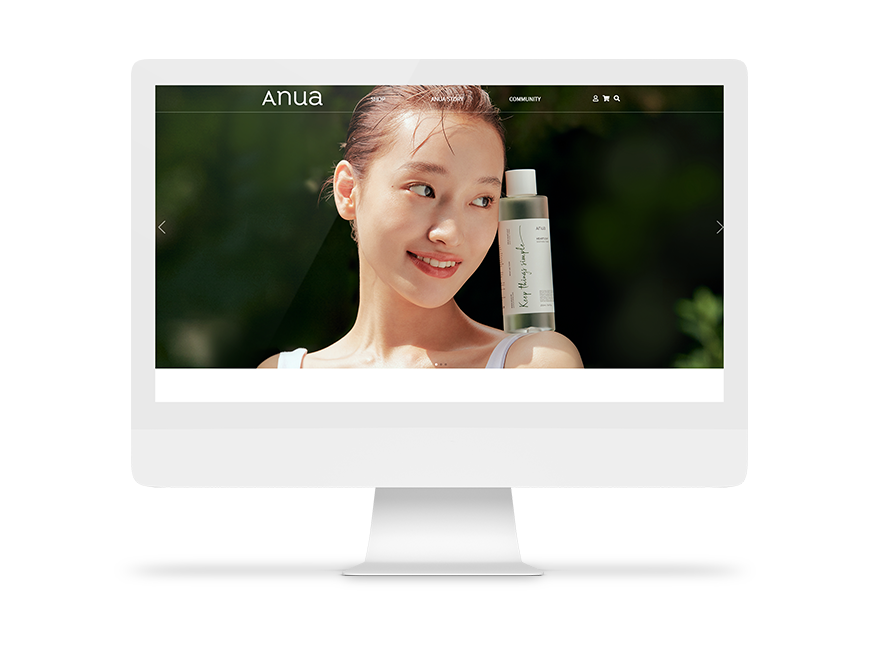
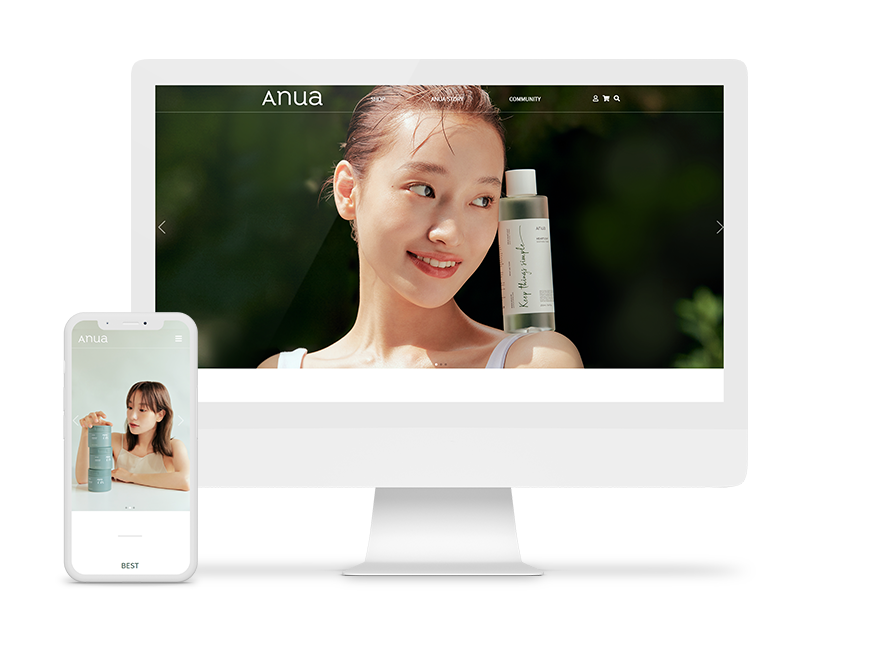
Add files via upload

Changed region(s): [[0.0621, 0.4615, 0.2483, 0.9231]]

diff --git a/index.html b/index.html
@@ -56,6 +56,9 @@
         .container{margin:0 auto;width:100%;max-width:1400px;}
         .page-name{margin-bottom:100px;font-weight:800;font-size:28px;text-align:center;}
         .sub-name{font-weight:700;font-size:20px;margin-bottom:70px;text-align:center;}
+        .short-line1,.short-line2{width:100px;height:1px;background-color:#333;margin:0 auto;}
+        .short-line1{margin-top:290px;}
+        .short-line2{margin-bottom:90px;}
 
         
         .top-nav{width:100%;height:100px;position:fixed;left:0;top:0;display:flex;justify-content: center;z-index:9999;background-color:transparent;color:#fff;}
@@ -66,7 +69,7 @@
         
         /* header style */
         header{width:100%;height:100vh;position:relative;}
-        header::after{content:'';display:block;width:80%;height:600px;left:10%;right:10%;bottom:-400px;position:absolute;background-color:rgba(233, 245, 246, .5);z-index:-99;}
+        /* header::after{content:'';display:block;width:80%;height:600px;left:10%;right:10%;bottom:-400px;position:absolute;background-color:rgba(233, 245, 246, .5);z-index:-99;} */
         .header .container{max-width:none;}
         .logo{font-weight:800;font-size:30px;}
         .back-img picture img{width:100%;height:100vh;position:absolute;right:0;top:0;bottom:0;filter:grayscale(0.7);}
@@ -134,8 +137,9 @@
         .space{display:none;}
 
         /* portfolio style */
-        .portfolio{position:relative;margin-bottom:150px;padding:100px 0;background:rgb(241, 239, 239);}
-        .portfolio::after{content:'';display:block;width:120%;height:500px;background-color:rgb(241, 239, 239);position:absolute;left:-37px;right:0;bottom:-60px;transform:rotate(-3deg);z-index:-99;}
+        .portfolio{position:relative;margin-bottom:150px;padding:100px 0;background:#f8f9fa;}
+        .portfolio::before{content:'';display:block;width:120%;height:200px;background-color:#fff;position:absolute;left:-37px;right:0;top:-125px;transform:rotate(-3deg);z-index:1;}
+        .portfolio::after{content:'';display:block;width:120%;height:500px;background-color:#f8f9fa;position:absolute;left:-37px;right:0;bottom:-60px;transform:rotate(-3deg);z-index:-99;}
         .swiper{width:90%;}
         .swiper-wrapper{height:58%;}
         .swiper-pagination-bullet-active{background:#333;}
@@ -143,12 +147,11 @@
         .slide-txt{text-align:center;}
         .btn-box{display:flex;justify-content:center;margin-top:10px;}
         .img-box img{border-radius:20px;}
-        .site-btn{width:100px;height:30px;border-radius:10px;background-color:#333;color:#fff;}
+        .site-btn{display:flex;justify-content:center;align-items:center;width:130px;height:30px;padding-bottom:4px;border-radius:10px;background-color:#333;color:#fff;}
         .btn-box .site-btn:nth-child(1){margin-right:5px;}
         h3{margin-top:10px;font-weight:600;font-size:1.3em;}
-        .short-line{width:100px;height:1px;background-color:#333;margin:0 auto;margin-bottom:90px;}
         .contents-box{display:flex;flex-flow:row wrap;justify-content:space-between;}
-        .btn-modal{width:100px;height:30px;border-radius:10px;margin:0 auto;background-color:#333;display:flex;justify-content:center;}
+        .btn-modal{width:100px;height:30px;border-radius:10px;margin:0 auto;padding-top:3px;background-color:#333;display:flex;justify-content:center;}
         .btn-modal a{color:#fff;}
 
 
@@ -159,23 +162,17 @@
         .e-mail{text-align:center;margin-bottom:200px;}
 
         /* modal style */
-        .modal{left:0;right:0;top:10px;bottom:0;background-color:rgba(0,0,0,.4);display:none;}
+        .modal{left:0;right:0;top:120px;bottom:0;background-color:rgba(0,0,0,.4);display:none;}
 
 
 
-
-        @media (max-width:1399px) {
-            /* .wrap{margin:0 20px;} */
-        }
         @media (max-width:1199px) {
-            /* .container{margin:0 20px;} */
 
             .back-img picture{padding:0 50px;}
 
-            .profil{width:80%;margin:150px auto 0;}
+            .profil{width:80%;margin:100px auto 0;}
 
-            .portfolio{width:100%;margin:150px auto 150px;}
-            .portfolio::after{display:none;}
+            .portfolio{width:100%;margin:130px auto 150px;}
             .top-nav ul{width:80%;}
             .left-box{border:none;}
             .my-img-box img{width:80%;}
@@ -198,18 +195,22 @@
             .info{text-align:center;}
             .about-me{flex-flow:column;}
             .my-img-box img{margin:0 auto;}
+            .license-box,.career-box,.skill-box{margin-top:15px;}
             .edu-box,.center-box,.career-box{text-align:center;}
             .edu-box{margin-top:20px;}
             .center-box br{display:none;}
+            .skill-box>.box-name{text-align:center;}
 
             /* port style */
-            .portfolio::after{content:'';display:block;width:100%;height:880px;background-color:#f8f9fa;position:absolute;left:0;right:0;top:400px;z-index:-99;}
             .container{margin:0;}
             .swiper-wrapper{height:100vw;}
             .design-box1{margin:0 auto;}
 
             /* footer style */
             .bottom-txt br{display:block;}
+
+            /* .modal{top:120px;} */
+
         }
         @media (max-width:495px) {
             .swiper-wrapper{height:120vw;}
@@ -252,6 +253,7 @@
                 <div class="scroll-mouse"><i class="fas fa-mouse"></i><p>SCROLL</p></div>
             </div>
         </header>
+        <div class="short-line1"></div>
         <section class="profil" id="profil">
             <h1 class="page-name">PROFIL</h1>
             <div class="container">
@@ -395,7 +397,7 @@
                     <div class="swiper-pagination"></div>
                 </div>
                 </div>
-                <div class="short-line"></div>
+                <div class="short-line2"></div>
                 <div class="design" data-aos="fade-up">
                     <div class="sub-name">Design</div>
                     <div class="contents-box">
@@ -404,8 +406,8 @@
                             <p class="btn-modal"><a href="#modal1" rel="modal:open">View</a></p>
                         </div>
                         <div class="design-box1">
-                            <img src="./images/benefit-design.png" alt="베네피트 디자인">
-                            <p class="btn-modal"><a href="#modal1" rel="modal:open">View</a></p>
+                            <img src="./images/anua-design.png" alt="아누아 디자인">
+                            <p class="btn-modal"><a href="#modal2" rel="modal:open">View</a></p>
                         </div>
                         <div class="design-box1">
                             <img src="./images/benefit-design.png" alt="베네피트 디자인">
@@ -442,6 +444,13 @@
                 <a href="#" rel="modal:close">Close</a>
             </div>
         </div>
+        <div id="modal2" class="modal">
+            <div class="modal-container">
+                <img src="./images/anua-home.png" alt="">
+                <a href="#" rel="modal:close">Close</a>
+            </div>
+        </div>
+
     </section>
     <script>
         $(function(){
@@ -509,10 +518,10 @@
                 mainTxt.classList.add('active');
             },1000)
 
-            // 모달
-            $('#modal-open').click(function(){
-                $('.modal1').css('display','block');
-            })
+            // // 모달
+            // $('#modal-open').click(function(){
+            //     $('.modal1').css('display','block');
+            // })
         })
     </script>
 </body>
